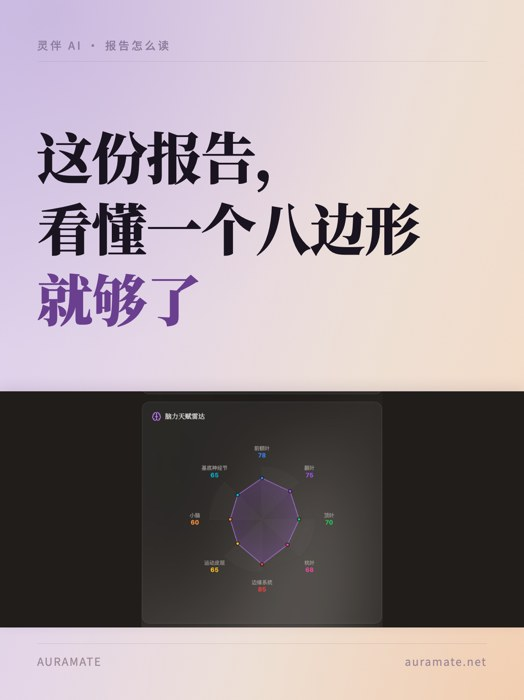
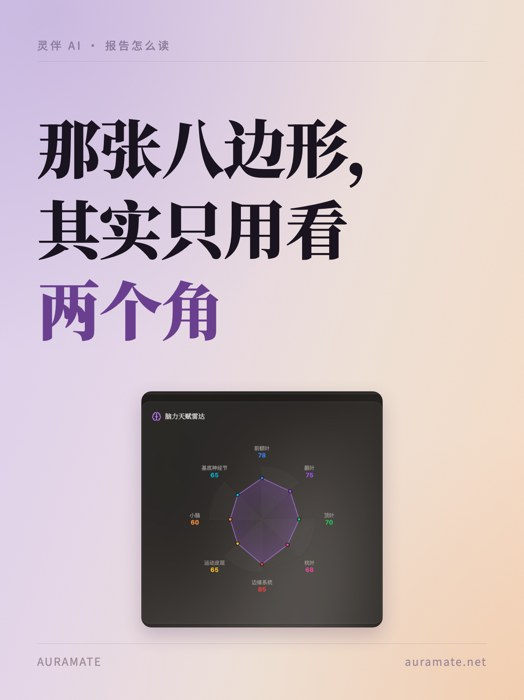
节令 + 使用教程重写：承诺要兑现，术语要翻译
用户：「文字内容很差劲，完全不知道在讲什么」。确实 —— 两篇都在铺垫和
暗示，从不给答案，读者读完不知道讲了什么，因为确实什么都没讲。

节令（3 → 5 张）：封面钩子换成具体体感（一入伏就没胃口、吃完就困），
第 3 张**把答案说出来**（长夏对应脾，脾转不动所以不想吃、吃完困），
第 4 张产品截图正好证明它——那张五脏图里脾 45 就是最低的一角，
第 5 张走清单型收尾（少碰冰的 / 把午觉睡回来 / 出微汗就行）。

使用教程（3 → 5 张）：核心价值是**把术语翻译成日常行为**，第 4 张的
翻译表（前额叶=做计划和忍住 / 边缘系统=对气氛敏感 / 小脑=手上精细活…）
才是读者会收藏的东西。三步真的是三步。标题不再自曝产品难懂。

模板加 card 模式：近方形信息图（雷达 / 五边形）塞进出血横带会左右留
一大片底色，改成居中圆角卡，图自己就是卡。

skill 补两条门槛：
- tuwen-seasonal「封面提的问题，正文必须回答」+ 配图要能当证据
- tuwen-feature-launch 教程型变体重写：术语翻译表是核心、三步要真三步、
  拿自己那份当例子；「每一个没被翻译的术语都是一个读者掉队的地方」

素材：五脏双卡拆成两张各对各题；天赋脑图另两张截图满屏文字且含
日主·偏印·七杀，双重踩线不能用，改成雷达全图 + 放大最高最低两角。

diff --git a/docs/demo/08-jieling-2.html b/docs/demo/08-jieling-2.html
@@ -1,10 +1,7 @@
 <!doctype html><html><head><meta charset=utf-8><style>
-/* 模板 A · 渐变编辑风 —— 产品截图页  (v2, 2026-08-10)
-   head 52px 说明标题 + 真实产品截图卡 + foot 数据标注。
-   截图必须完整、铺满、干净（无违禁词露出）。
-   portrait 手机图 → .shot{height:100%}（默认）
-   landscape/近方图 → .shot{width:100%;height:auto} + .shot img{width:100%;height:auto}
-   ⚠ kicker/foot 用第一人称叙述，绝不写「真实产品截图」「产品 demo」。 */
+/* 模板 A · 渐变编辑风 —— 正文页  (v2, 2026-08-10)
+   正文统一 44px / lh 1.9。每张写满 2-3 段，别一段一张、别大片留白。
+   .em 深梅紫强调；.en 英文词红棕斜体；.last 收尾段加粗一档。 */
 @import url('https://fonts.googleapis.com/css2?family=Noto+Serif+SC:wght@400;500;700;900&family=Noto+Sans+SC:wght@400;500&display=swap');
 *{margin:0;padding:0;box-sizing:border-box;}
 html,body{width:1242px;height:1660px;font-family:'Noto Serif SC','Songti SC',serif;color:#2b2620;overflow:hidden;}
@@ -18,21 +15,20 @@ html,body{width:1242px;height:1660px;font-family:'Noto Serif SC','Songti SC',ser
 .frame > *{position:relative;z-index:1;}
 .kicker{font-family:'Noto Sans SC','PingFang SC',sans-serif;font-size:26px;font-weight:500;letter-spacing:0.2em;color:#8d7d9e;
   padding-bottom:20px;border-bottom:1px solid rgba(90,70,95,0.16);}
-.head{font-size:52px;font-weight:900;line-height:1.34;color:#1a1420;margin-top:30px;}
-.head .em{color:#6b3f8f;}
-.shotwrap{flex:1;display:flex;align-items:center;justify-content:center;min-height:0;margin-top:34px;}
-.shot{width:100%;height:auto;max-height:100%;border-radius:26px;overflow:hidden;border:1px solid rgba(90,70,95,0.26);box-shadow:0 22px 54px rgba(60,40,70,0.26);}
-.shot img{width:100%;display:block;}
-/* 横构图截图放进竖版 slide，图和 foot 之间必然空一块 ——
-   用这段解读把它撑满。竖构图截图铺满高度时，把整个 .note 删掉。 */
-.note{font-size:34px;line-height:1.75;color:#4a4348;margin-top:30px;}
-.note .em{color:#6b3f8f;font-weight:500;}
-.foot{margin-top:34px;padding-top:22px;border-top:1px solid rgba(90,70,95,0.18);display:flex;justify-content:space-between;align-items:center;
+.body{flex:1;font-size:44px;font-weight:400;line-height:1.9;color:#302c2e;margin-top:46px;}
+.body p{margin-bottom:38px;}
+.body p:last-child{margin-bottom:0;}
+.body .em{color:#6b3f8f;font-weight:500;}
+.body .en{color:#8a5a52;font-style:italic;}
+.body .last{font-weight:500;}
+.foot{padding-top:22px;border-top:1px solid rgba(90,70,95,0.18);display:flex;justify-content:space-between;align-items:center;
   font-family:'Noto Sans SC','PingFang SC',sans-serif;font-size:26px;color:#9e8a99;letter-spacing:0.1em;}
 </style></head><body><div class="frame">
 <div class="kicker">节气手记 · 01</div>
-<div class="head">五脏各有各的<span class="em">负载曲线</span></div>
-<div class="shotwrap"><div class="shot"><img src="assets/wuyun-cards.jpg"/></div></div>
-<div class="note">左边这张标的是位置，右边那个五边形标的是<span class="em">负载</span>——哪一角鼓出来就是这段时间使力最多的地方，凹下去的是撑不上劲的。入伏这几天，多数人凹的是同一个角。</div>
-<div class="foot"><span>灵伴 AI · 五脏读数</span><span>木肝 · 火心 · 土脾 · 金肺 · 水肾</span></div>
+<div class="body">
+  <p>入伏这几天，很多人会同时出现这几样：早上起不来，中午吃两口就饱，下午三四点整个人是沉的，晚上又睡不踏实。</p>
+  <p>这不是意志力的问题。三伏是一年里最特殊的一段——<span class="em">外面最热，人身上的热却都浮在体表，里头反而是空的</span>。</p>
+  <p>古人干脆把这段从夏天里单拎出来，另给了个名字叫「长夏」。单独命名，就是因为它跟前面两个月的规律不一样。</p>
+</div>
+<div class="foot"><span>灵伴 AI · AURAMATE</span><span>auramate.net</span></div>
 </div></body></html>

diff --git a/docs/demo/06-jiaocheng-1.html b/docs/demo/06-jiaocheng-1.html
@@ -13,8 +13,11 @@
 
    ⚠ 横带里放什么，决定了用 cover 还是 contain：
      氛围插画（可裁）→ object-fit:contain + object-position 调主体位置。默认。
-     信息图 / 产品截图（不可裁）→ .illo img{object-fit:contain} + 给 .illo 一个
-       跟图底色接近的背景。图表和截图是**信息**，裁掉一块就是残的。
+     信息图 / 产品截图（不可裁）→ 有两种放法：
+       · 横构图（图表、宽截图）：留出血横带 + object-fit:contain + 配底色
+       · 近方形（雷达图、五边形）：**别塞进出血横带**，会左右留一大片底色。
+         改成居中圆角卡 —— 去掉 margin 负值，img 用 height:100%;width:auto，
+         图自己就是那张卡，浅渐变露在两边，看着是设计不是没填满。
      踩过：benchmark 图和天赋雷达都按 cover 放进横带，柱子标签和顶点数字被切掉，
      用户一眼看出来「插图被截得不完整」。
 
@@ -35,16 +38,16 @@ html,body{width:1242px;height:1660px;font-family:'Noto Serif SC','Songti SC',ser
 .kicker{font-family:'Noto Sans SC','PingFang SC',sans-serif;font-size:26px;font-weight:500;letter-spacing:0.2em;color:#8d7d9e;
   padding-bottom:20px;border-bottom:1px solid rgba(90,70,95,0.16);}
 .titlewrap{flex:1;display:flex;align-items:center;min-height:0;}
-.title{font-size:132px;font-weight:900;line-height:1.28;letter-spacing:-0.02em;color:#1a1420;}
+.title{font-size:150px;font-weight:900;line-height:1.28;letter-spacing:-0.02em;color:#1a1420;}
 .title .em{color:#6b3f8f;}
-.illo{background:#201d1b;height:560px;flex-shrink:0;margin:0 -88px;}
-.illo img{width:100%;height:100%;object-fit:contain;object-position:center 76%;display:block;
-  box-shadow:0 -8px 28px rgba(72,48,92,0.12);}
+.illo{height:560px;flex-shrink:0;display:flex;align-items:center;justify-content:center;}
+.illo img{height:100%;width:auto;max-width:100%;border-radius:24px;object-position:center 76%;display:block;
+  box-shadow:0 18px 44px rgba(72,48,92,0.24);}
 .foot{margin-top:38px;padding-top:22px;border-top:1px solid rgba(90,70,95,0.18);display:flex;justify-content:space-between;align-items:center;
   font-family:'Noto Sans SC','PingFang SC',sans-serif;font-size:26px;color:#9e8a99;letter-spacing:0.1em;}
 </style></head><body><div class="frame">
 <div class="kicker">灵伴 AI · 报告怎么读</div>
-<div class="titlewrap"><div class="title">这份报告，<br/>看懂一个八边形<br/><span class="em">就够了</span></div></div>
+<div class="titlewrap"><div class="title">那张八边形，<br/>其实只用看<br/><span class="em">两个角</span></div></div>
 <div class="illo"><img src="assets/radar.png"/></div>
 <div class="foot"><span>AURAMATE</span><span>auramate.net</span></div>
 </div></body></html>

diff --git a/docs/demo/08-jieling-1.html b/docs/demo/08-jieling-1.html
@@ -13,8 +13,11 @@
 
    ⚠ 横带里放什么，决定了用 cover 还是 contain：
      氛围插画（可裁）→ object-fit:contain + object-position 调主体位置。默认。
-     信息图 / 产品截图（不可裁）→ .illo img{object-fit:contain} + 给 .illo 一个
-       跟图底色接近的背景。图表和截图是**信息**，裁掉一块就是残的。
+     信息图 / 产品截图（不可裁）→ 有两种放法：
+       · 横构图（图表、宽截图）：留出血横带 + object-fit:contain + 配底色
+       · 近方形（雷达图、五边形）：**别塞进出血横带**，会左右留一大片底色。
+         改成居中圆角卡 —— 去掉 margin 负值，img 用 height:100%;width:auto，
+         图自己就是那张卡，浅渐变露在两边，看着是设计不是没填满。
      踩过：benchmark 图和天赋雷达都按 cover 放进横带，柱子标签和顶点数字被切掉，
      用户一眼看出来「插图被截得不完整」。
 
@@ -37,14 +40,14 @@ html,body{width:1242px;height:1660px;font-family:'Noto Serif SC','Songti SC',ser
 .titlewrap{flex:1;display:flex;align-items:center;min-height:0;}
 .title{font-size:132px;font-weight:900;line-height:1.28;letter-spacing:-0.02em;color:#1a1420;}
 .title .em{color:#6b3f8f;}
-.illo{background:#2a2624;height:400px;flex-shrink:0;margin:0 -88px;}
-.illo img{width:100%;height:100%;object-fit:contain;object-position:center 76%;display:block;
-  box-shadow:0 -8px 28px rgba(72,48,92,0.12);}
+.illo{height:520px;flex-shrink:0;display:flex;align-items:center;justify-content:center;}
+.illo img{height:100%;width:auto;max-width:100%;border-radius:24px;object-position:center 76%;display:block;
+  box-shadow:0 18px 44px rgba(72,48,92,0.24);}
 .foot{margin-top:38px;padding-top:22px;border-top:1px solid rgba(90,70,95,0.18);display:flex;justify-content:space-between;align-items:center;
   font-family:'Noto Sans SC','PingFang SC',sans-serif;font-size:26px;color:#9e8a99;letter-spacing:0.1em;}
 </style></head><body><div class="frame">
 <div class="kicker">灵伴 AI · 节气手记</div>
-<div class="titlewrap"><div class="title">入伏这几天，<br/>身体最先<br/><span class="em">扛不住的地方</span></div></div>
-<div class="illo"><img src="assets/wuyun-liuqi.jpg"/></div>
+<div class="titlewrap"><div class="title">一入伏就没胃口、<br/>吃完就困，<br/><span class="em">不是你懒</span></div></div>
+<div class="illo"><img src="assets/wuyun-radar.jpg"/></div>
 <div class="foot"><span>AURAMATE</span><span>auramate.net</span></div>
 </div></body></html>

diff --git a/docs/demo/06-jiaocheng-4.html b/docs/demo/06-jiaocheng-4.html
@@ -24,11 +24,10 @@ html,body{width:1242px;height:1660px;font-family:'Noto Serif SC','Songti SC',ser
 .foot{padding-top:22px;border-top:1px solid rgba(90,70,95,0.18);display:flex;justify-content:space-between;align-items:center;
   font-family:'Noto Sans SC','PingFang SC',sans-serif;font-size:26px;color:#9e8a99;letter-spacing:0.1em;}
 </style></head><body><div class="frame">
-<div class="kicker">报告怎么读 · 01</div>
+<div class="kicker">报告怎么读 · 03</div>
 <div class="body">
-  <p>天赋脑图跑完，出来的是一个八边形：八个角是八个脑区，每个角带一个分数。</p>
-  <p>多数人打开先找最高分，看完一句「哦我边缘系统 85」，然后就没有然后了。</p>
-  <p><span class="em">分数本身没什么用</span>——它不是排名，也不跟别人比。有用的是这张图的形状：哪个角鼓出来，哪个角凹下去。</p>
+  <p>第二步：把这两个名字翻成人话。八个脑区听着像医学名词，对应的其实都是<span class="em">日常行为</span>——</p>
+  <p><span class="em">前额叶</span>　做计划、忍住不做某事<br/><span class="em">颞叶</span>　　听人说话、记人记事<br/><span class="em">顶叶</span>　　方向感、身体的空间协调<br/><span class="em">枕叶</span>　　对画面和视觉信息敏感<br/><span class="em">边缘系统</span>　对情绪和气氛敏感<br/><span class="em">运动皮层</span>　动手、把事真做出来<br/><span class="em">小脑</span>　　手上的精细活<br/><span class="em">基底神经节</span>　养习惯、扛重复</p>
 </div>
 <div class="foot"><span>灵伴 AI · AURAMATE</span><span>auramate.net</span></div>
 </div></body></html>

diff --git a/docs/demo/08-jieling-5.html b/docs/demo/08-jieling-5.html
@@ -24,11 +24,11 @@ html,body{width:1242px;height:1660px;font-family:'Noto Serif SC','Songti SC',ser
 .foot{padding-top:22px;border-top:1px solid rgba(90,70,95,0.18);display:flex;justify-content:space-between;align-items:center;
   font-family:'Noto Sans SC','PingFang SC',sans-serif;font-size:26px;color:#9e8a99;letter-spacing:0.1em;}
 </style></head><body><div class="frame">
-<div class="kicker">报告怎么读 · 01</div>
+<div class="kicker">节气手记 · 04</div>
 <div class="body">
-  <p>天赋脑图跑完，出来的是一个八边形：八个角是八个脑区，每个角带一个分数。</p>
-  <p>多数人打开先找最高分，看完一句「哦我边缘系统 85」，然后就没有然后了。</p>
-  <p><span class="em">分数本身没什么用</span>——它不是排名，也不跟别人比。有用的是这张图的形状：哪个角鼓出来，哪个角凹下去。</p>
+  <p>知道是脾在硬撑，这几天该怎么过就清楚了。</p>
+  <p><span class="em">少碰冰的</span>——热在体表、里头本来就是凉的，一杯冰饮下去，最先受不了的就是它。<br/><span class="em">把午觉睡回来</span>——长夏最耗的是白天那段，补在中午比熬到晚上有用。<br/><span class="em">出微汗就行</span>——出汗是散湿的，但汗出大了力气也跟着走。</p>
+  <p><span class="last">都是常识，只是这几天格外要紧。你觉得累，真的不是你懒——是这段时间它本来就难。</span></p>
 </div>
 <div class="foot"><span>灵伴 AI · AURAMATE</span><span>auramate.net</span></div>
 </div></body></html>

diff --git a/docs/demo/06-jiaocheng-5.html b/docs/demo/06-jiaocheng-5.html
@@ -24,11 +24,11 @@ html,body{width:1242px;height:1660px;font-family:'Noto Serif SC','Songti SC',ser
 .foot{padding-top:22px;border-top:1px solid rgba(90,70,95,0.18);display:flex;justify-content:space-between;align-items:center;
   font-family:'Noto Sans SC','PingFang SC',sans-serif;font-size:26px;color:#9e8a99;letter-spacing:0.1em;}
 </style></head><body><div class="frame">
-<div class="kicker">报告怎么读 · 01</div>
+<div class="kicker">报告怎么读 · 04</div>
 <div class="body">
-  <p>天赋脑图跑完，出来的是一个八边形：八个角是八个脑区，每个角带一个分数。</p>
-  <p>多数人打开先找最高分，看完一句「哦我边缘系统 85」，然后就没有然后了。</p>
-  <p><span class="em">分数本身没什么用</span>——它不是排名，也不跟别人比。有用的是这张图的形状：哪个角鼓出来，哪个角凹下去。</p>
+  <p>第三步：把这两句连起来读。我那张最高是边缘系统、最低是小脑，翻译过来就是——对气氛和情绪敏感得过头，但手上的精细活一做就烦。</p>
+  <p>这解释了我为什么能坐着写一天字，装个柜子能装到砸手。<span class="em">不是不认真，是那件事在我这儿本来就更费。</span></p>
+  <p><span class="last">你那张最高最低是哪两个，基本就是你最省力和最费力的两件事。知道这个，比知道分数有用得多。</span></p>
 </div>
 <div class="foot"><span>灵伴 AI · AURAMATE</span><span>auramate.net</span></div>
 </div></body></html>

diff --git a/docs/demo/08-jieling-4.html b/docs/demo/08-jieling-4.html
@@ -30,9 +30,9 @@ html,body{width:1242px;height:1660px;font-family:'Noto Serif SC','Songti SC',ser
 .foot{margin-top:34px;padding-top:22px;border-top:1px solid rgba(90,70,95,0.18);display:flex;justify-content:space-between;align-items:center;
   font-family:'Noto Sans SC','PingFang SC',sans-serif;font-size:26px;color:#9e8a99;letter-spacing:0.1em;}
 </style></head><body><div class="frame">
-<div class="kicker">报告怎么读 · 02</div>
-<div class="head">第一步：把<span class="em">最高和最低</span>那两个角找出来</div>
-<div class="shotwrap"><div class="shot"><img src="assets/radar-zoom.jpg"/></div></div>
-<div class="note">我这张最高是边缘系统 85，最低是小脑 60，差 <span class="em">25 分</span>。差得越多，这两件事在你身上的省力和费力就越明显。</div>
-<div class="foot"><span>灵伴 AI · 天赋脑图</span><span>八个维度 · 只用记两个</span></div>
+<div class="kicker">节气手记 · 03</div>
+<div class="head">我这张，最低的一角<span class="em">正好是脾</span></div>
+<div class="shotwrap"><div class="shot"><img src="assets/wuyun-body.jpg"/></div></div>
+<div class="note">五个数字标的是这段时间各脏的负载，越低越吃力。我这张肝 85 最高、<span class="em">脾 45 最低</span>。你那张最低的是哪一角，值得点开看一眼——每个人不一样。</div>
+<div class="foot"><span>灵伴 AI · 五脏读数</span><span>肝 85 · 心 70 · 肾 60 · 肺 50 · 脾 45</span></div>
 </div></body></html>

diff --git a/docs/demo/08-jieling-3.html b/docs/demo/08-jieling-3.html
@@ -26,9 +26,9 @@ html,body{width:1242px;height:1660px;font-family:'Noto Serif SC','Songti SC',ser
 </style></head><body><div class="frame">
 <div class="kicker">节气手记 · 02</div>
 <div class="body">
-  <p>古人把一年切成二十四段，不是为了好看，是因为<span class="em">身体在每一段里的负载不一样</span>。三伏这段最典型：外面热，里面反而是空的。</p>
-  <p>一套一千年前的季节-体质对应表，把这件事记得很细：哪一段该多睡，哪一段不该吃凉的，哪一段情绪容易起火。我们把它做成了一份体检式的读数，每个人的图都不一样。</p>
-  <p>你不用信它，就当是一份提醒：<span class="last">这几天你觉得累，可能真的不是你懒。</span></p>
+  <p>长夏在这套模型里对应的脏是<span class="em">脾</span>。脾管的是把吃进去的东西转成能用的力气。</p>
+  <p>湿气一重它就转不动，于是第一反应就是不想吃、吃完困、身上发沉——正好是上面那几样。</p>
+  <p>所以「最先扛不住的地方」不是硬套出来的，是长夏配土、土配脾这条对应关系直接推下来的。</p>
 </div>
 <div class="foot"><span>灵伴 AI · AURAMATE</span><span>auramate.net</span></div>
 </div></body></html>

diff --git a/docs/demo/05-baziqa-1.html b/docs/demo/05-baziqa-1.html
@@ -13,8 +13,11 @@
 
    ⚠ 横带里放什么，决定了用 cover 还是 contain：
      氛围插画（可裁）→ object-fit:contain + object-position 调主体位置。默认。
-     信息图 / 产品截图（不可裁）→ .illo img{object-fit:contain} + 给 .illo 一个
-       跟图底色接近的背景。图表和截图是**信息**，裁掉一块就是残的。
+     信息图 / 产品截图（不可裁）→ 有两种放法：
+       · 横构图（图表、宽截图）：留出血横带 + object-fit:contain + 配底色
+       · 近方形（雷达图、五边形）：**别塞进出血横带**，会左右留一大片底色。
+         改成居中圆角卡 —— 去掉 margin 负值，img 用 height:100%;width:auto，
+         图自己就是那张卡，浅渐变露在两边，看着是设计不是没填满。
      踩过：benchmark 图和天赋雷达都按 cover 放进横带，柱子标签和顶点数字被切掉，
      用户一眼看出来「插图被截得不完整」。
 

diff --git a/docs/demo/01-reframe-1.html b/docs/demo/01-reframe-1.html
@@ -13,8 +13,11 @@
 
    ⚠ 横带里放什么，决定了用 cover 还是 contain：
      氛围插画（可裁）→ object-fit:cover + object-position 调主体位置。默认。
-     信息图 / 产品截图（不可裁）→ .illo img{object-fit:contain} + 给 .illo 一个
-       跟图底色接近的背景。图表和截图是**信息**，裁掉一块就是残的。
+     信息图 / 产品截图（不可裁）→ 有两种放法：
+       · 横构图（图表、宽截图）：留出血横带 + object-fit:contain + 配底色
+       · 近方形（雷达图、五边形）：**别塞进出血横带**，会左右留一大片底色。
+         改成居中圆角卡 —— 去掉 margin 负值，img 用 height:100%;width:auto，
+         图自己就是那张卡，浅渐变露在两边，看着是设计不是没填满。
      踩过：benchmark 图和天赋雷达都按 cover 放进横带，柱子标签和顶点数字被切掉，
      用户一眼看出来「插图被截得不完整」。
 

diff --git a/docs/demo/02-shishen-1.html b/docs/demo/02-shishen-1.html
@@ -13,8 +13,11 @@
 
    ⚠ 横带里放什么，决定了用 cover 还是 contain：
      氛围插画（可裁）→ object-fit:cover + object-position 调主体位置。默认。
-     信息图 / 产品截图（不可裁）→ .illo img{object-fit:contain} + 给 .illo 一个
-       跟图底色接近的背景。图表和截图是**信息**，裁掉一块就是残的。
+     信息图 / 产品截图（不可裁）→ 有两种放法：
+       · 横构图（图表、宽截图）：留出血横带 + object-fit:contain + 配底色
+       · 近方形（雷达图、五边形）：**别塞进出血横带**，会左右留一大片底色。
+         改成居中圆角卡 —— 去掉 margin 负值，img 用 height:100%;width:auto，
+         图自己就是那张卡，浅渐变露在两边，看着是设计不是没填满。
      踩过：benchmark 图和天赋雷达都按 cover 放进横带，柱子标签和顶点数字被切掉，
      用户一眼看出来「插图被截得不完整」。
 

diff --git a/docs/demo/04-gongneng-1.html b/docs/demo/04-gongneng-1.html
@@ -13,8 +13,11 @@
 
    ⚠ 横带里放什么，决定了用 cover 还是 contain：
      氛围插画（可裁）→ object-fit:cover + object-position 调主体位置。默认。
-     信息图 / 产品截图（不可裁）→ .illo img{object-fit:contain} + 给 .illo 一个
-       跟图底色接近的背景。图表和截图是**信息**，裁掉一块就是残的。
+     信息图 / 产品截图（不可裁）→ 有两种放法：
+       · 横构图（图表、宽截图）：留出血横带 + object-fit:contain + 配底色
+       · 近方形（雷达图、五边形）：**别塞进出血横带**，会左右留一大片底色。
+         改成居中圆角卡 —— 去掉 margin 负值，img 用 height:100%;width:auto，
+         图自己就是那张卡，浅渐变露在两边，看着是设计不是没填满。
      踩过：benchmark 图和天赋雷达都按 cover 放进横带，柱子标签和顶点数字被切掉，
      用户一眼看出来「插图被截得不完整」。
 
